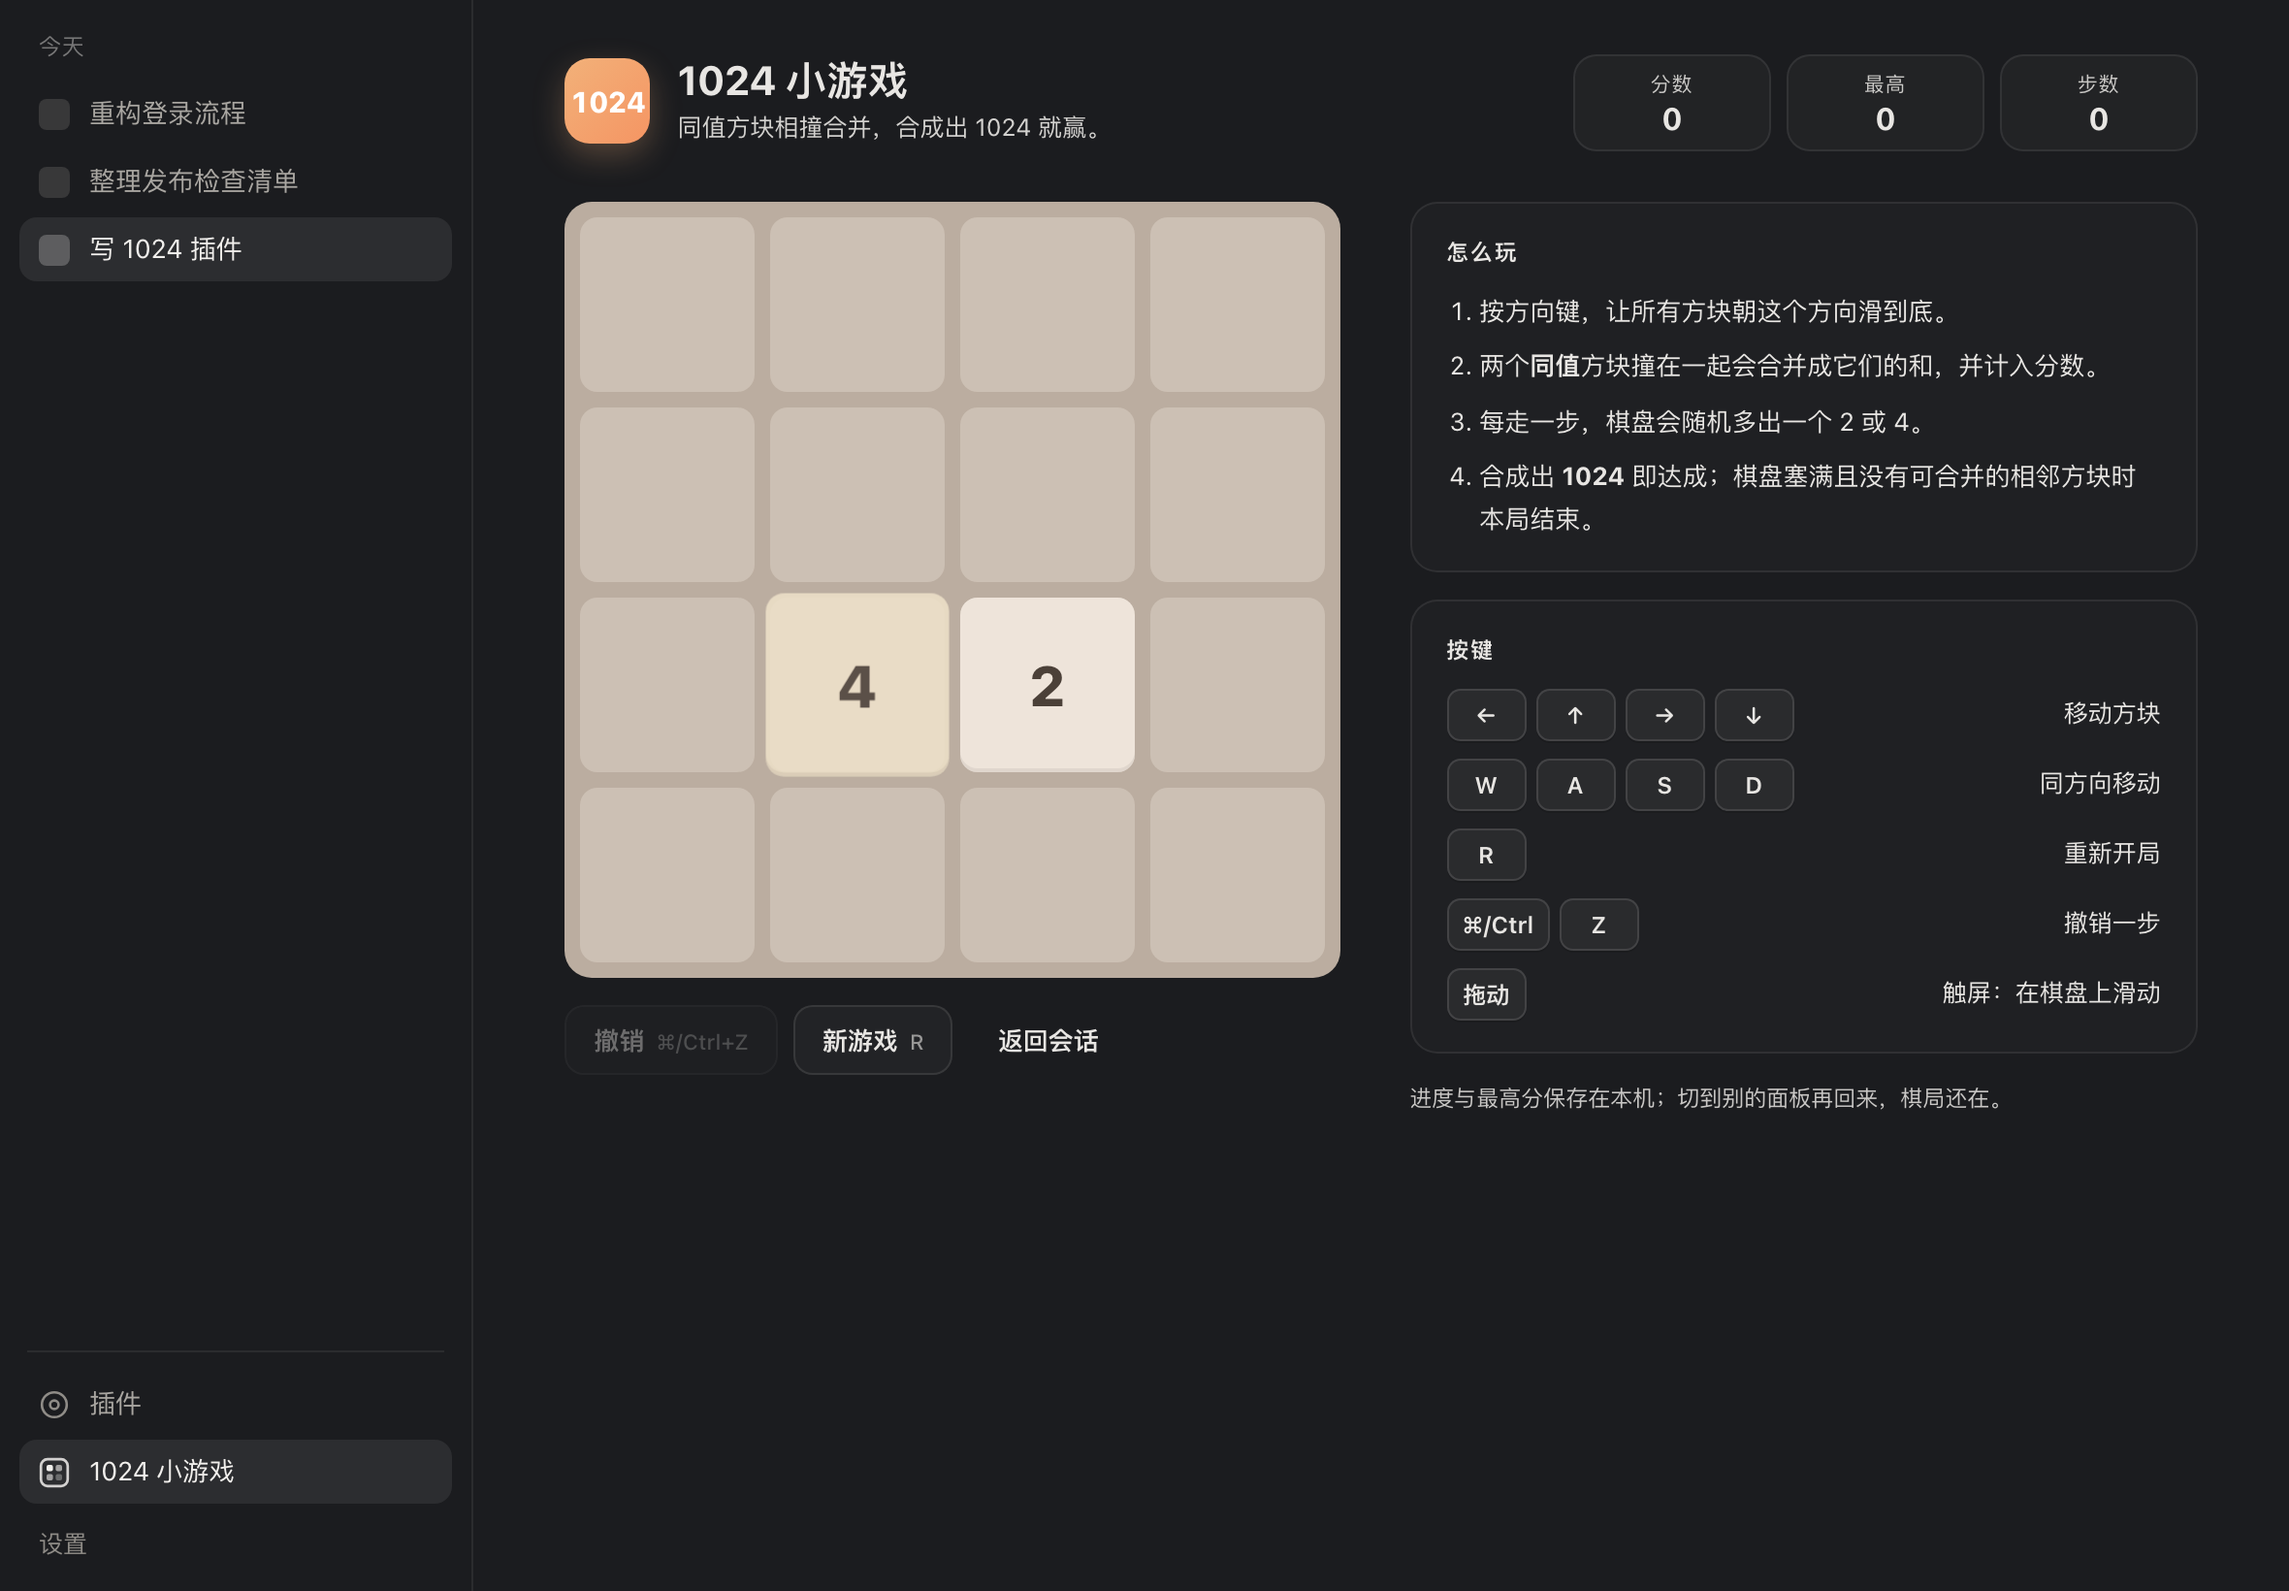
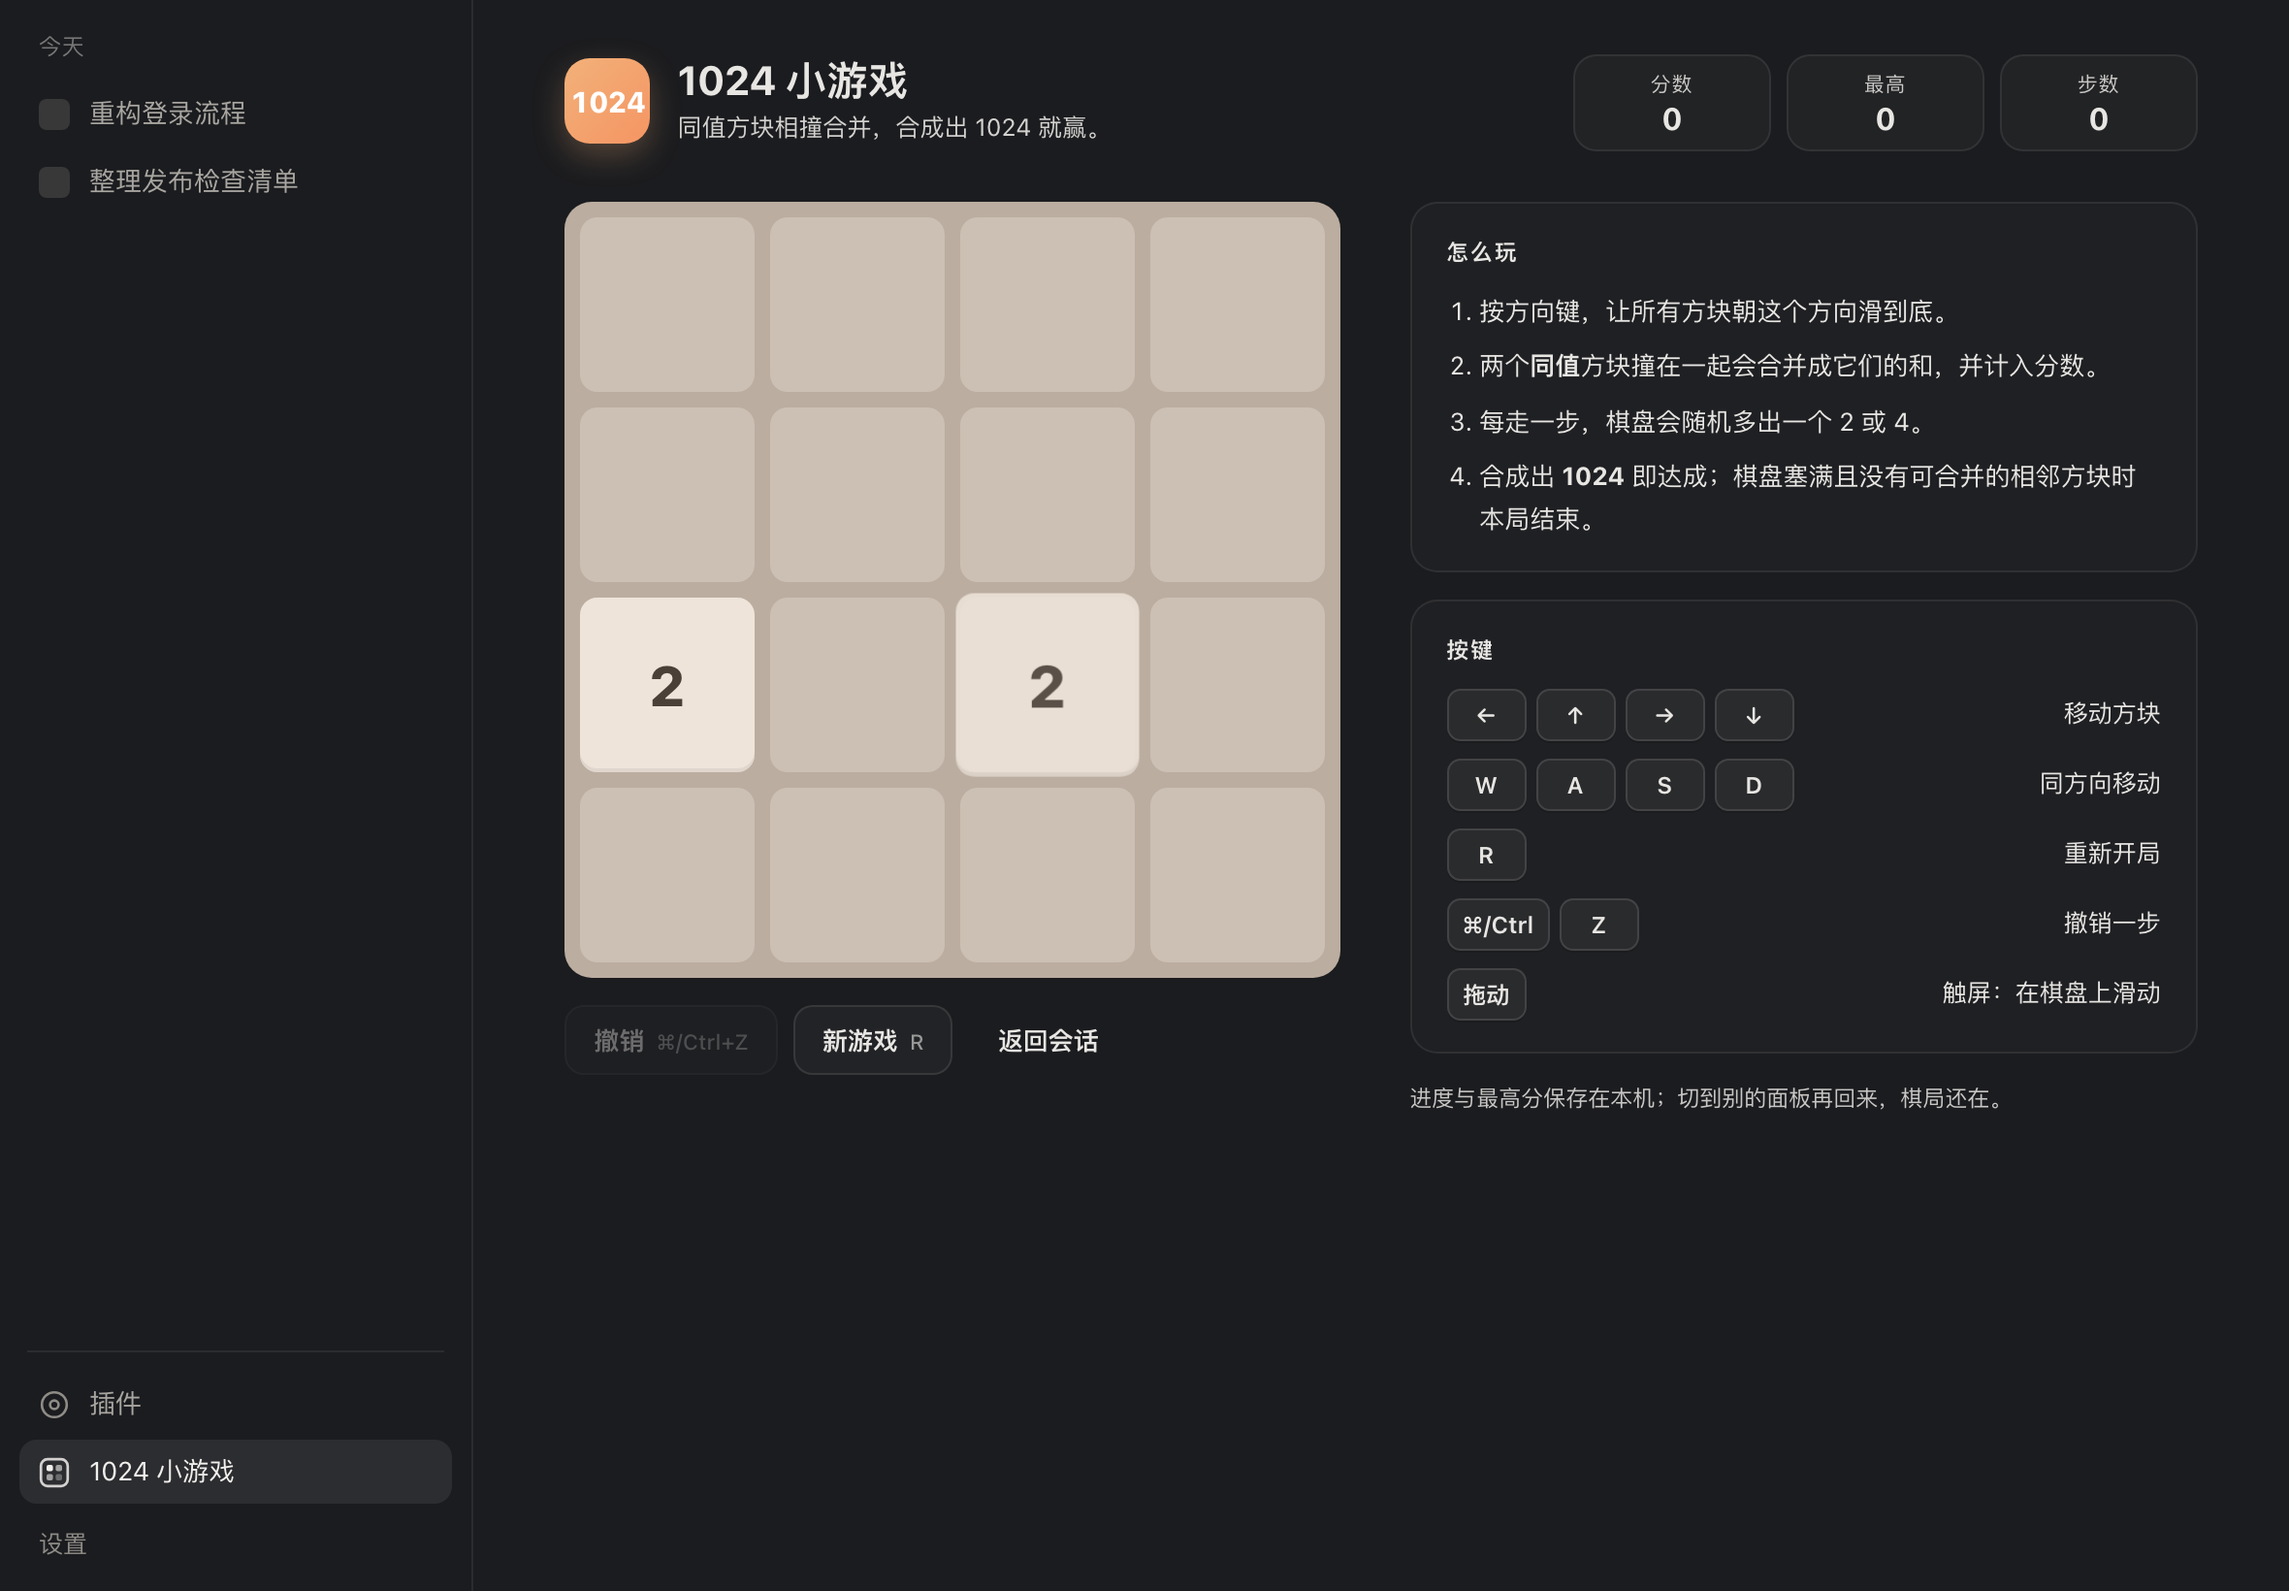
Preview: drop the mock session row so the sidebar shows only panel entries

Changed region(s): [[0.2475, 0.3732, 0.4331, 0.4976], [0.0, 0.1244, 0.0309, 0.1866], [0.0619, 0.1555, 0.0928, 0.1866]]

diff --git a/preview/entry.js b/preview/entry.js
@@ -86,15 +86,16 @@ function PreviewFrame() {
 		},
 	},
 	h("div", { style: { fontSize: 11.5, opacity: 0.45, padding: "0 10px 8px", letterSpacing: ".4px" } }, "今天"),
-	["重构登录流程", "整理发布检查清单", "写 1024 插件"].map((title) =>
+	["重构登录流程", "整理发布检查清单"].map((title) =>
 		h(SidebarRow, {
 			key: title,
 			icon: h("span", { style: { display: "inline-block", width: 16, height: 16, borderRadius: 4, background: "currentColor", opacity: 0.25 } }),
 			label: title,
-			active: title === "写 1024 插件",
+			active: false,
 		})),
 	h("div", { style: { flex: 1 } }),
 	h("div", { style: { height: 1, background: "rgba(255,255,255,.07)", margin: "8px 4px" } }),
+	// 下面两行是「面板列表」：插件页与我们的游戏入口并列
 	h(SidebarRow, { icon: h(PluginsGlyph, {}), label: "插件" }),
 	h(SidebarRow, { icon: h(PanelIcon, { size: 16, active: true }), label: "1024 小游戏", active: true }),
 	h("div", { style: { padding: "10px 10px 0", fontSize: 12.5, color: "#8f8c87" } }, "设置")),
